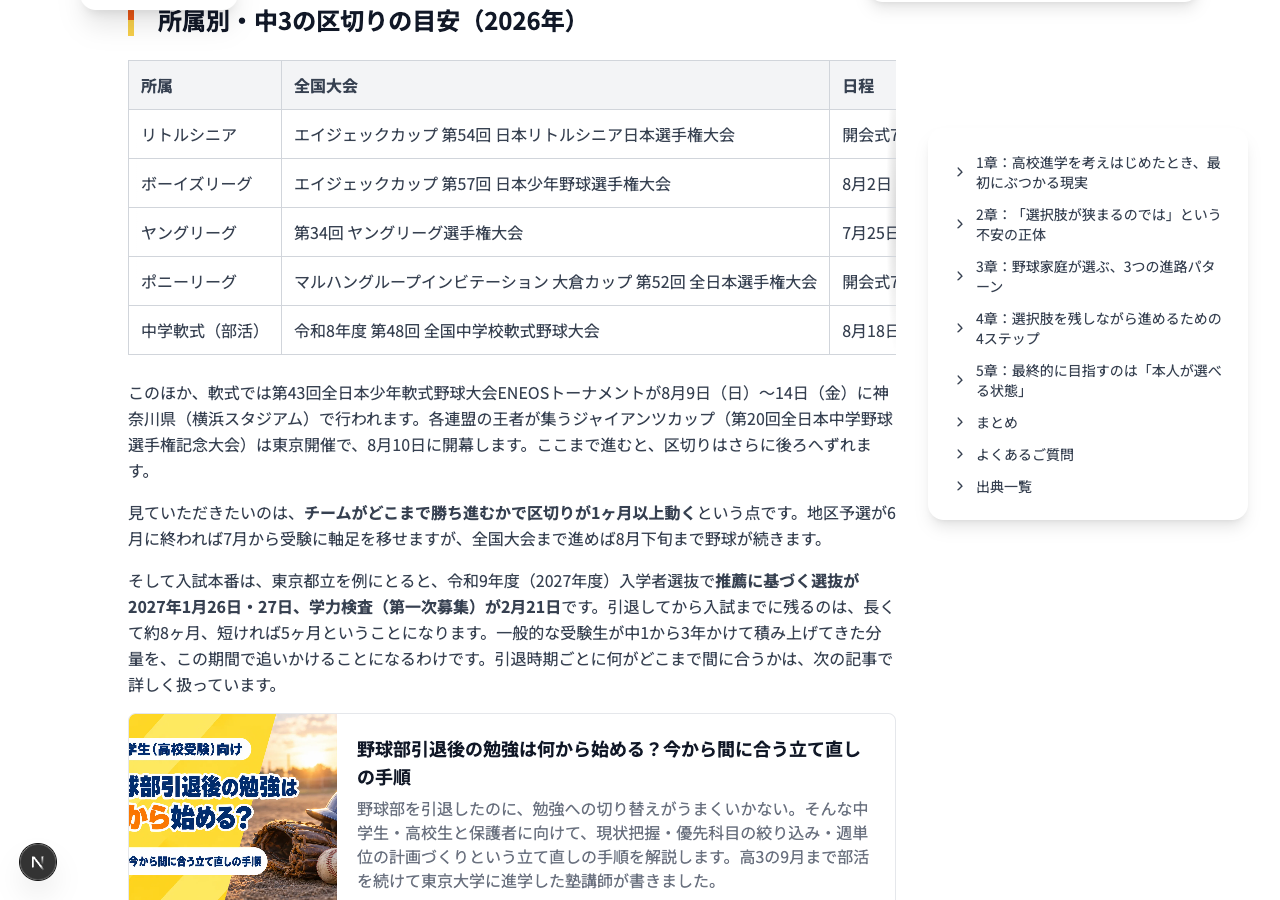
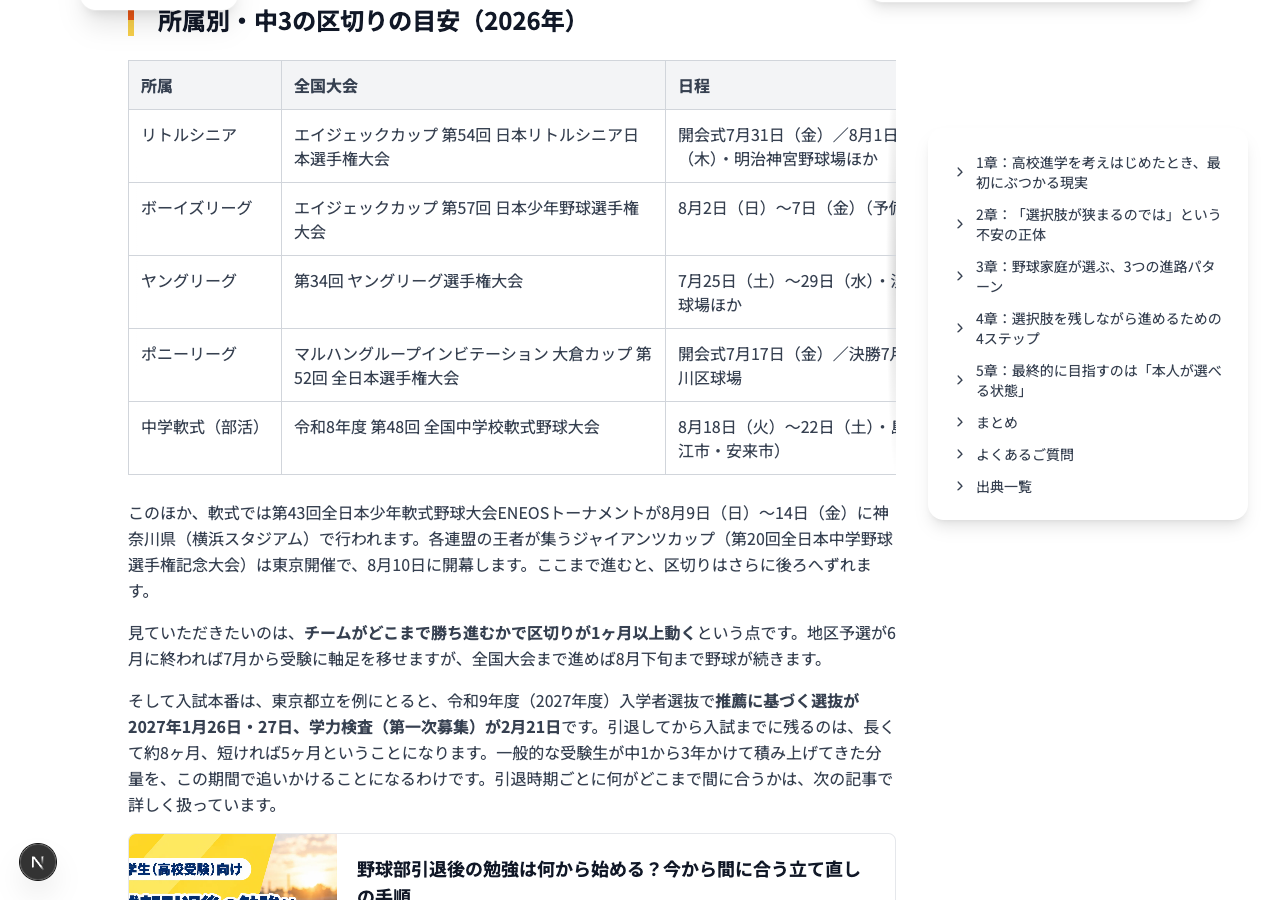
blog: リンクカードと表の仕上げ修正 — (a) PC でサムネが縦に引き伸ばされて画像の左が切れる問題を修正、(b) 説明文の line-clamp-2 が block と競合して効いていなかったのを修正、(c) 表の各セルに max-width:24em を追加して長文セルが横に伸び切らず適切に折り返すよう調整。(A) `app/[locale]/blog/[slug]/page.tsx` のカード: 親 `<a>` の `items-stretch` を `sm:items-start` に変更 (スマホは flex-col なのでアイテムの揃えは無関係、PC で stretch に

Changed region(s): [[0.0938, 0.56, 0.7188, 1.0], [0.0938, 0.0622, 0.7188, 0.5289]]

diff --git a/app/[locale]/blog/[slug]/page.tsx b/app/[locale]/blog/[slug]/page.tsx
@@ -405,10 +405,11 @@ export default async function BlogPostPage(props: {
                           <a
                             href={cleanHref}
                             {...(ctaTrackId ? { 'data-track-cta': ctaTrackId } : {})}
-                            className="not-prose flex flex-col sm:flex-row items-stretch my-4 border border-gray-200 rounded-lg overflow-hidden hover:border-gray-400 hover:bg-gray-50 transition-colors no-underline group"
+                            className="not-prose flex flex-col sm:flex-row sm:items-start my-4 border border-gray-200 rounded-lg overflow-hidden hover:border-gray-400 hover:bg-gray-50 transition-colors no-underline group"
                           >
-                            {/* サムネイル: スマホは全幅、PC は左 180-200px、どちらも 1200/630 の比率を維持 */}
-                            <span className="block w-full sm:w-44 md:w-52 sm:flex-none bg-gray-100 overflow-hidden" style={{ aspectRatio: '1200 / 630' }}>
+                            {/* サムネイル: スマホは全幅、PC は左 180-200px、どちらも 1200/630 の比率を維持。
+                                sm:items-start + サムネの self-start で、テキストが長くてもサムネが縦に引き伸ばされない */}
+                            <span className="block w-full sm:w-44 md:w-52 sm:flex-none sm:self-start bg-gray-100 overflow-hidden" style={{ aspectRatio: '1200 / 630' }}>
                               {meta?.image && (
                                 <img
                                   src={meta.image}
@@ -418,11 +419,12 @@ export default async function BlogPostPage(props: {
                               )}
                             </span>
                             <span className="flex-1 min-w-0 p-4 md:p-5 no-underline">
-                              <span className="block text-base md:text-lg font-bold text-gray-900 group-hover:text-primary transition-colors no-underline line-clamp-2">
+                              {/* line-clamp-2 は display:-webkit-box なので block とは共存できない (後勝ちで block が勝ってクランプが効かない)。block を外す */}
+                              <span className="text-base md:text-lg font-bold text-gray-900 group-hover:text-primary transition-colors no-underline line-clamp-2">
                                 {meta?.title || children}
                               </span>
                               {meta?.description && (
-                                <span className="block mt-1.5 text-sm md:text-base text-gray-500 line-clamp-2 no-underline">
+                                <span className="mt-1.5 text-sm md:text-base text-gray-500 line-clamp-2 no-underline">
                                   {meta.description}
                                 </span>
                               )}

diff --git a/app/globals.css b/app/globals.css
@@ -270,8 +270,13 @@
   .blog-table-scroll th {
     white-space: nowrap;
   }
+  /* td: 短いセルを潰さない min-width:8em と、長文セルが横に伸び切らない max-width:24em のレンジで
+     自然に折り返す。CJK は overflow-wrap:anywhere で単語境界なしでも適切に改行させる */
   .blog-table-scroll td {
     min-width: 8em;
+    max-width: 24em;
+    overflow-wrap: anywhere;
+    word-break: normal;
   }
 
   .prose hr {
